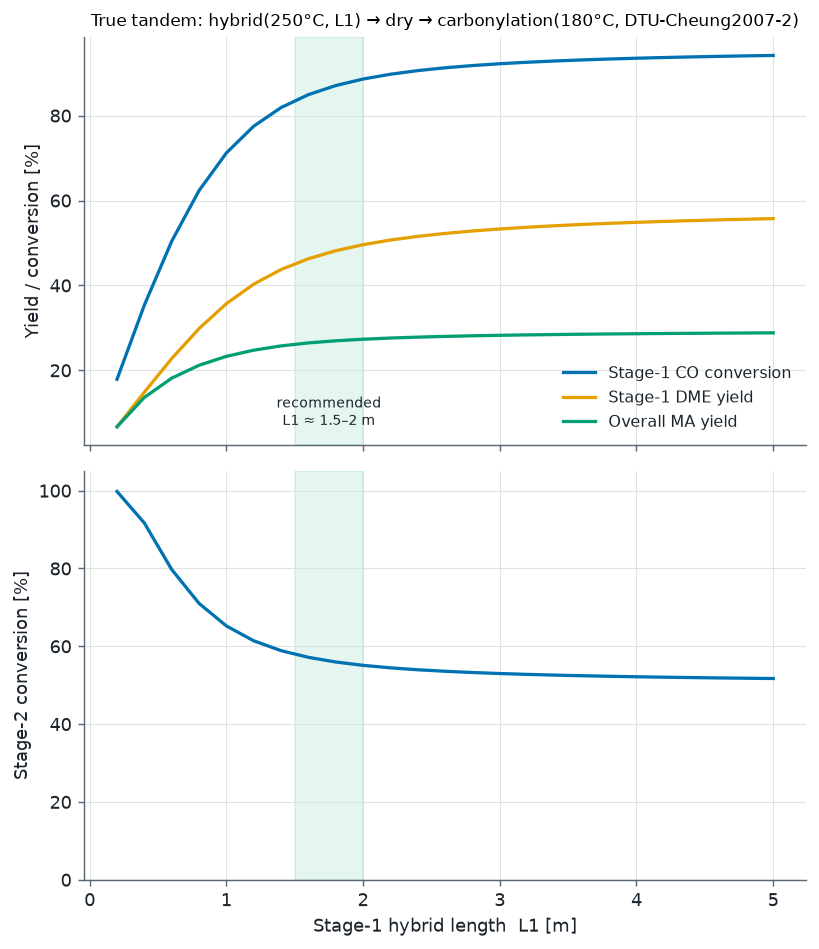
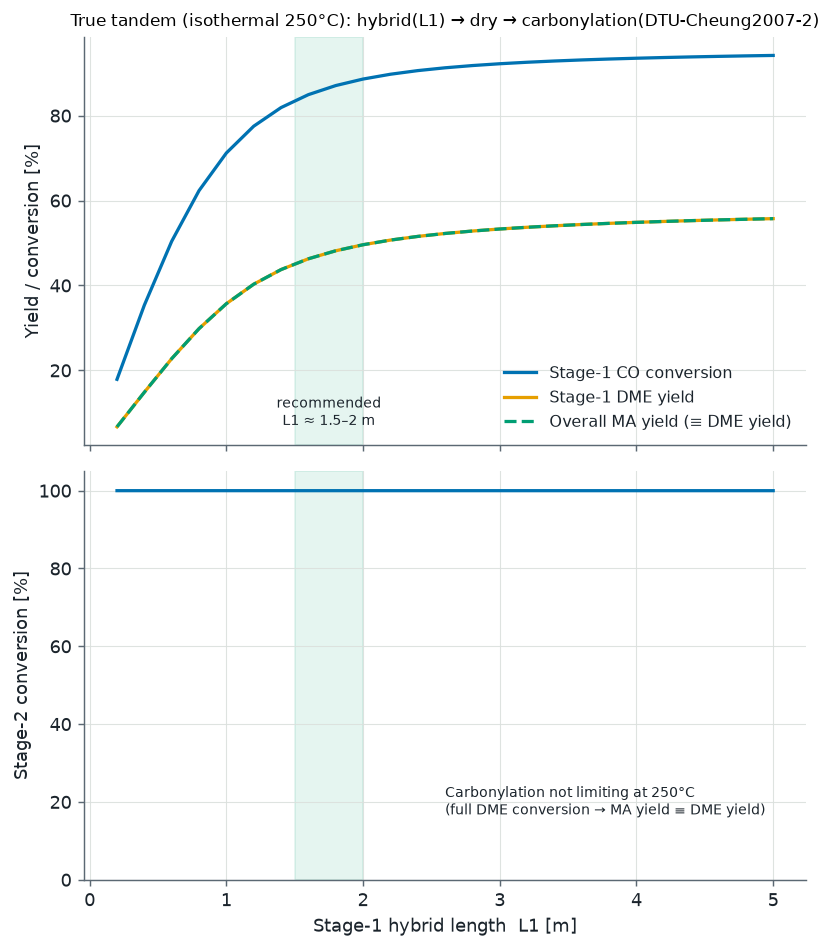
L1スイープ図も等温250℃に更新
段2カルボニル化を段1と同じ250℃に統一（従来 180℃）。
配分最適化図(3bd0382)との温度整合。

結果:
・250℃ではカルボニル化が速く段2 DME→MA転化が全域 ~100%
  → MA収率 ≡ DME収率（段2は律速でない）。上段で MA(破線)が DME(実線)に一致。
・MA収率は L1 とともに上昇し ~1.5-2m で頭打ち（推奨分割は不変）。
・下段(段2転化)は平坦100%＝「250℃では段2非律速」を明示。
⚠ 250℃はカルボニル化の検証域(150-190℃)外の外挿でMAは過大評価側、と明記。

diff --git a/examples/fig_tandem_stages.py b/examples/fig_tandem_stages.py
@@ -7,10 +7,11 @@
 
   段1  MeOH/DME ハイブリッド PFR @250℃（synthesis:dehydration = 5:5, 長さ L1 可変）
   段間 DME を抽出し H2O・CH3OH を除去（＝蒸留/凝縮で乾燥）、新鮮 CO を CO:DME=R で添加
-  段2  カルボニル化 PFR @180℃（乾燥 DME + CO, 固定触媒 W2, DTU-Cheung2007-2）
+  段2  カルボニル化 PFR @250℃（乾燥 DME + CO, 固定触媒 W2, DTU-Cheung2007-2）
 
-段2は 180℃＝カルボニル化の検証域(150–190℃)内なので、混合ハイブリッド図（250℃外挿）
-より現実的。段間で水を抜くため段2は水阻害なしの DTU-Cheung2007-2 が妥当。
+両段を同一 250℃ とした等温評価。段間で水を抜くため段2は水阻害なしの DTU-Cheung2007-2
+が妥当。⚠ 250℃ はカルボニル化の検証域(150–190℃)外の外挿（Ea=69.6 で 438K の ~22 倍）
+なので段2は速く MA は過大評価側。180℃(検証域内)なら段2律速で最適 L1 はより短くなる。
 
 横軸 L1 を振り、生成物 MA の収率を見る（＝「どこでハイブリッドを打ち切りカルボニル化に
 繋ぐのが良いか」）。収率定義:
@@ -33,7 +34,7 @@ from reaction_rate.reactors import pfr, CatalystBed
 from reaction_rate import plots
 
 FTOT = 0.10
-T1, T2 = 523.15, 453.15                   # 段1 250℃（ハイブリッド）, 段2 180℃（カルボニル化）
+T1, T2 = 523.15, 523.15                   # 両段 250℃（等温）。段2は検証域外の外挿
 P = 50.0
 RHO = 1200.0
 GEOM = Geometry(area=np.pi / 4 * 0.04**2, bulk_density=RHO, void_fraction=0.40)
@@ -79,22 +80,28 @@ def main():
     fig, (ax1, ax2) = plt.subplots(2, 1, figsize=(6.4, 7.4), dpi=130, sharex=True)
 
     # 上: 段1 CO転化・段1 DME収率・総合 MA収率（すべて %, 単一軸）
+    # 250℃では MA収率≡DME収率で重なるため、MA を破線で重ねて DME(橙)を透かす
     plots.lines(L1_GRID, {"Stage-1 CO conversion": co_conv,
-                          "Stage-1 DME yield": dme_yield,
-                          "Overall MA yield": ma_yield},
+                          "Stage-1 DME yield": dme_yield},
                 "", "Yield / conversion [%]", ax=ax1)
-    ax1.set_title(f"True tandem: hybrid(250°C, L1) → dry → carbonylation(180°C, {CARB})",
+    ax1.plot(L1_GRID, ma_yield, color=plots.OKABE_ITO[2], lw=1.8, ls="--",
+             label="Overall MA yield (≡ DME yield)")
+    ax1.legend(frameon=False, labelcolor=plots._INK, fontsize=9)
+    ax1.set_title(f"True tandem (isothermal 250°C): hybrid(L1) → dry → carbonylation({CARB})",
                   fontsize=9.5)
-    # 推奨分割域 ~1.5–2 m を淡く網掛け（MA 収率が頭打ちに入る手前）
+    # 推奨分割域 ~1.5–2 m を淡く網掛け（DME/MA 収率が頭打ちに入る手前）
     ax1.axvspan(1.5, 2.0, color=plots.OKABE_ITO[2], alpha=0.10, zorder=0)
     ax1.text(1.75, 6, "recommended\nL1 ≈ 1.5–2 m", ha="center", va="bottom",
              fontsize=8, color=plots._INK)
 
-    # 下: 段2 DME→MA 転化（固定 W2 では DME 増で低下＝カルボニル化触媒律速）
+    # 下: 段2 DME→MA 転化。250℃ ではカルボニル化が速く全域 ~100%（DME を完全転化）
+    #     ＝段2は律速でなく、MA 収率 ≡ DME 収率（上段で MA と DME が重なる）。
     plots.lines(L1_GRID, {"Stage-2 DME→MA conversion": stage2_conv},
                 "Stage-1 hybrid length  L1 [m]", "Stage-2 conversion [%]", ax=ax2)
     ax2.axvspan(1.5, 2.0, color=plots.OKABE_ITO[2], alpha=0.10, zorder=0)
     ax2.set_ylim(0, 105)
+    ax2.text(0.5, 0.16, "Carbonylation not limiting at 250°C\n(full DME conversion → MA yield ≡ DME yield)",
+             transform=ax2.transAxes, fontsize=8, color=plots._INK)
 
     fig.tight_layout()
     print("saved", plots.save(fig, "tandem_stages.png"))
